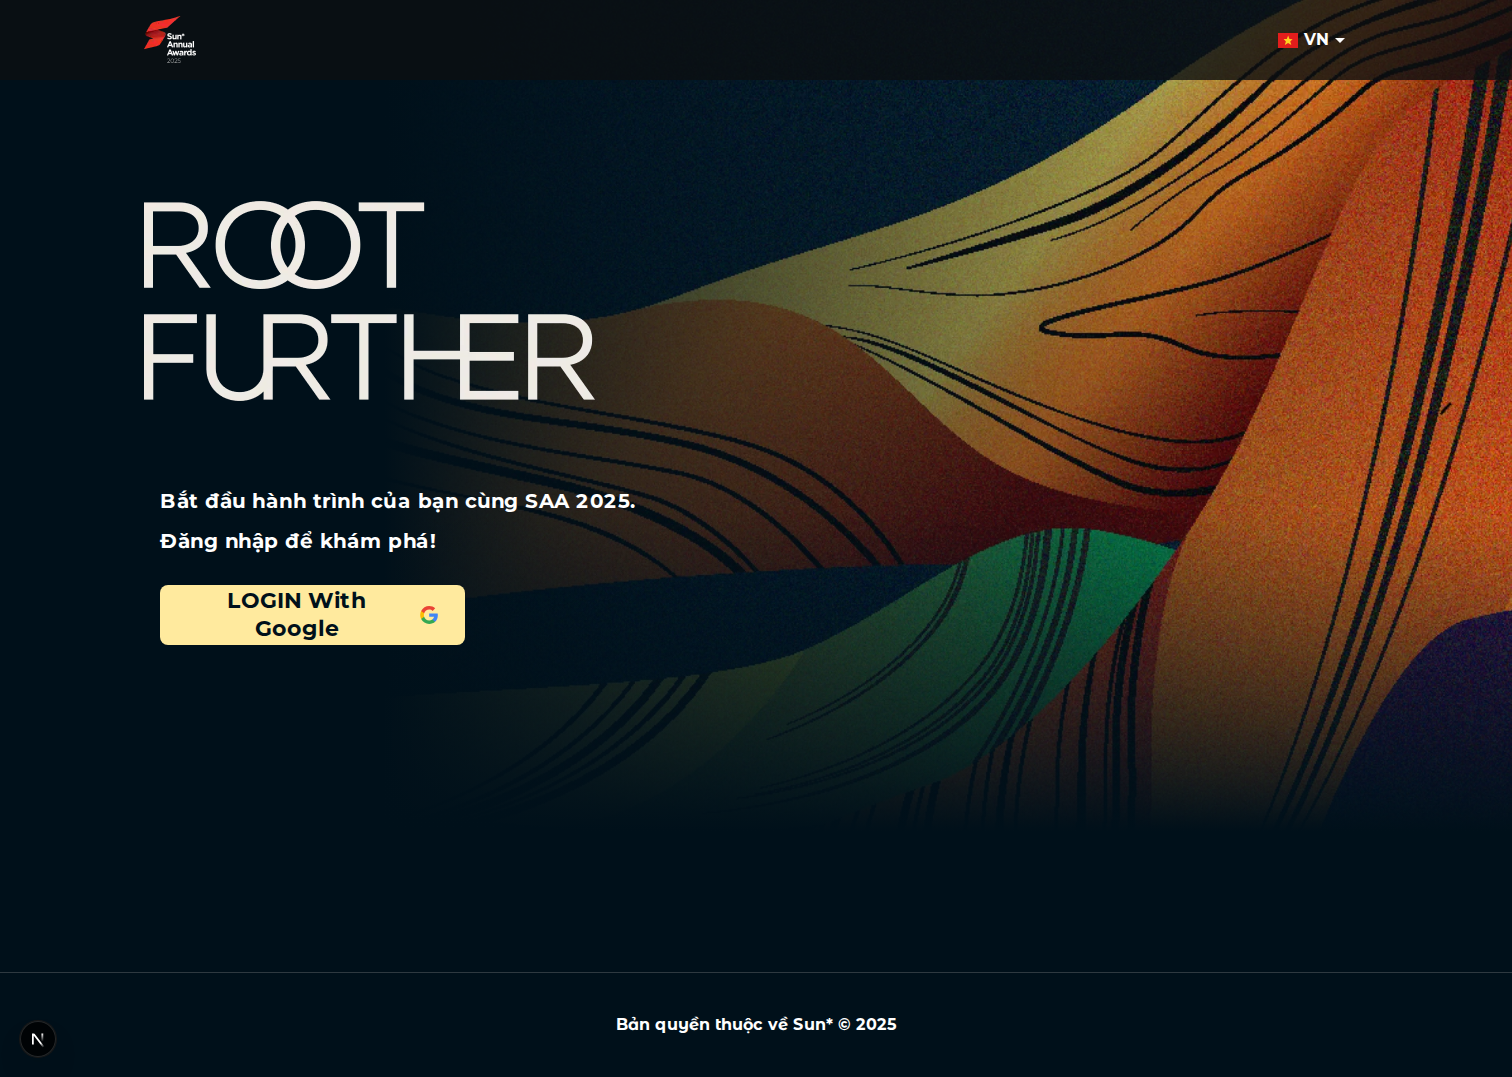
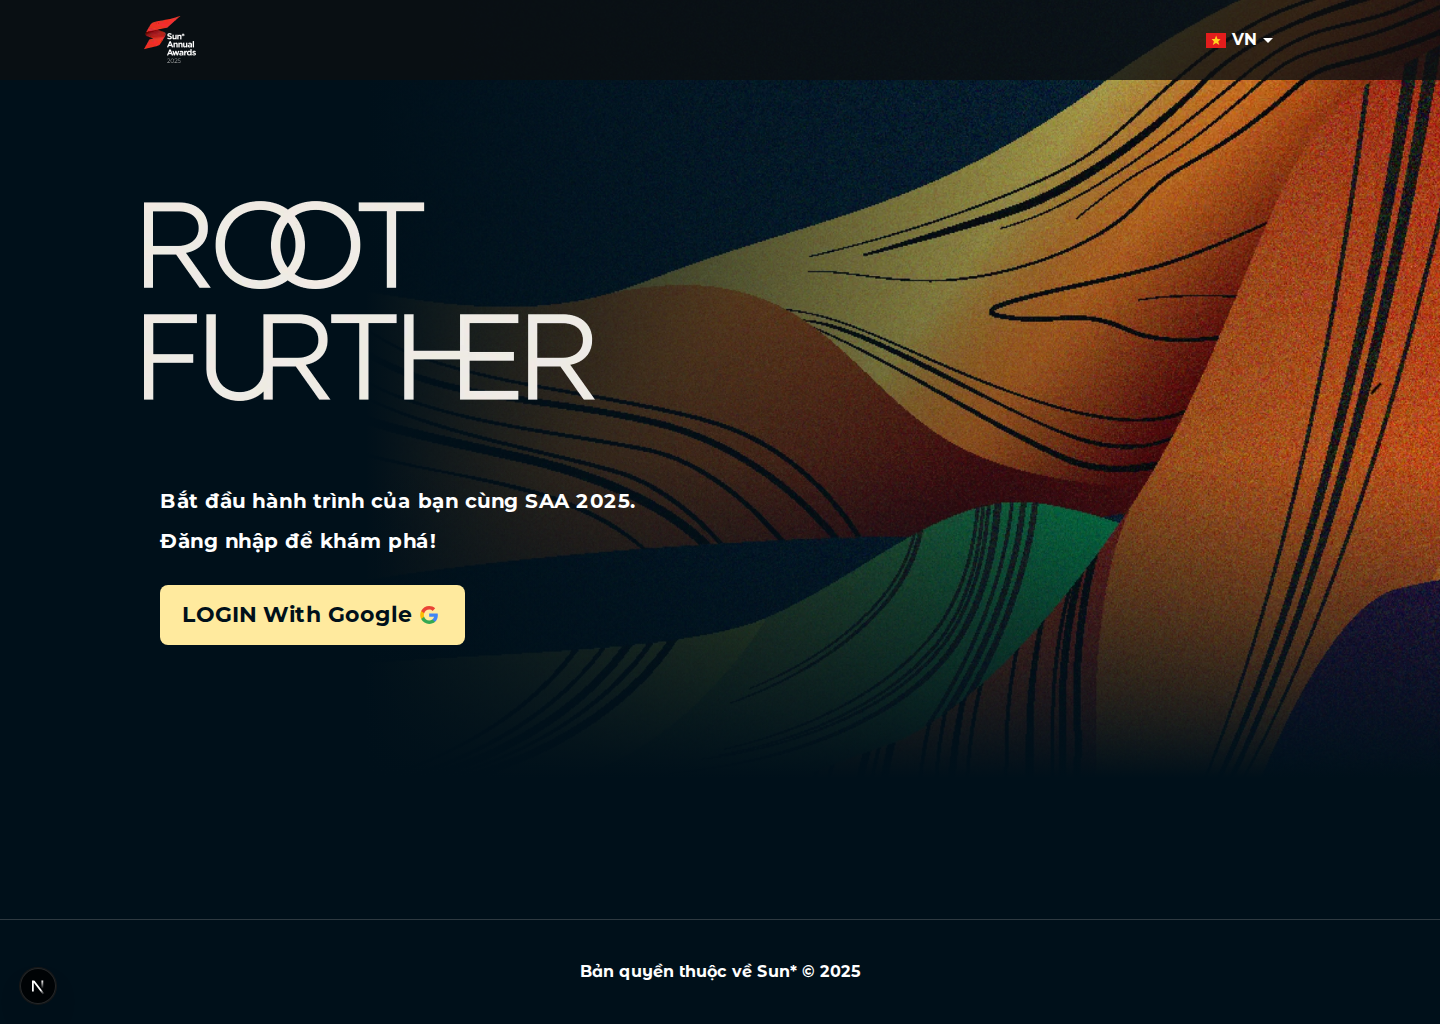
Fix UI màn login

diff --git a/src/components/login/LoginButton.tsx b/src/components/login/LoginButton.tsx
@@ -69,7 +69,7 @@ export default function LoginButton({ labels }: { labels: LoginButtonLabels }) {
         aria-label={labels.label}
         className="flex h-[60px] w-[305px] items-center justify-start gap-2 rounded-lg bg-saa-button-primary px-6 py-4 disabled:opacity-70"
       >
-        <span className="flex h-7 w-[225px] items-center justify-center font-display text-[22px] font-bold leading-7 text-saa-button-primary-fg">
+        <span className="flex h-7 w-[225px] items-center justify-center font-display text-[22px] font-bold leading-7 whitespace-nowrap text-saa-button-primary-fg">
           {labels.label}
         </span>
         <Image